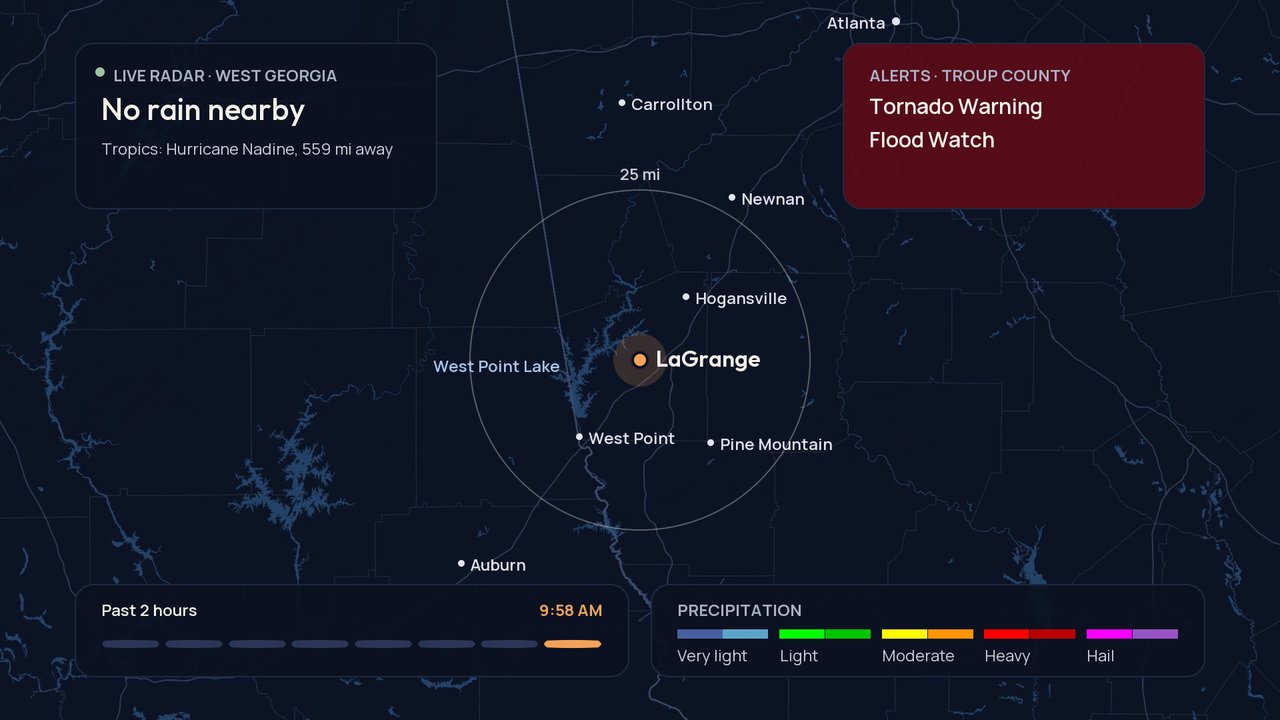
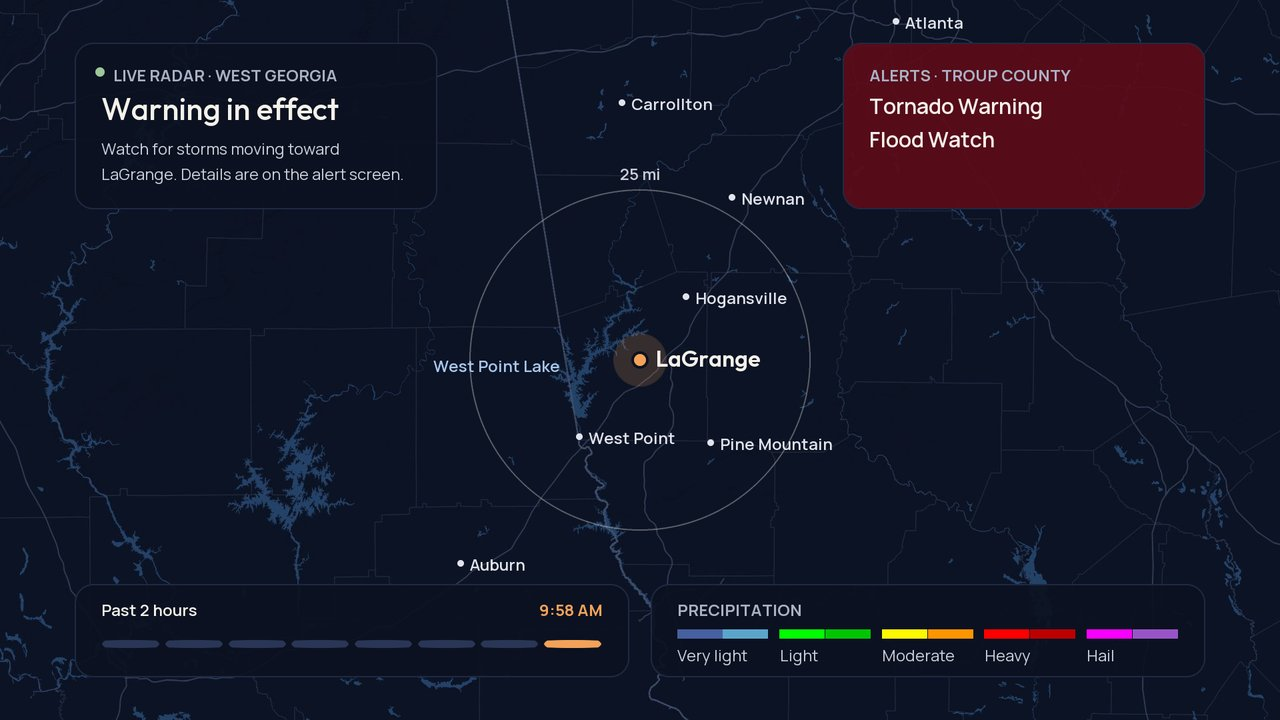
Docs: takeover, radar geometry, chores; changelog for 1.6

Changed region(s): [[0.0625, 0.1222, 0.3125, 0.275], [0.6562, 0.0306, 0.75, 0.0611], [0.3438, 0.7639, 0.4062, 0.7944]]

diff --git a/docs/CONFIGURATION.md b/docs/CONFIGURATION.md
@@ -15,6 +15,17 @@ Each member has a `name` (matched as a whole word in calendar titles), a `color`
 - `school` and `grade`: show the member on the School screen
 - `activities`: `["Marching band"]` adds the Friday-game note
 
+## Chores
+```json
+"chores": [
+  {"task": "Dishes after dinner", "rotate": ["Riley", "Casey"], "every": "day"},
+  {"task": "Feed the dog", "rotate": ["Alex", "Jordan", "Riley", "Casey"], "every": "week"}
+]
+```
+- **How turns rotate:** in the `rotate` order. Weekly chores move each Sunday, and daily ones each day.
+- **On screen:** the Board shows whose turn it is and who's next.
+- **Names** must be members; the build checks.
+
 ## Curbside
 `"curbside": {"weekday": "Monday"}` is the household's pickup day. The rules themselves (alternating yard and bulky weeks, city holidays) are the City of LaGrange's, in `rules.brs`. Another town needs its own rules there, or `"place": {"curbside": null}` to turn curbside off.
 
@@ -56,12 +67,13 @@ Without a `place` block, Daybreak uses its LaGrange, Georgia defaults (`placeDef
 | `college` | `{name, short, team, color, ics}`: a college athletics iCal feed whose titles start with `[W]`/`[L]` for results (Sidearm Sports sites) |
 | `news` | Google News queries (plain text, which the build URL-encodes), a regex that a headline or source must match to count as local, and the town paper's name (very short headlines from it are section labels) |
 | `curbside` | `"lagrange"` (the built-in rules) or `null` |
+| `radar` | `{places: [{name, lat, lon}], water: [{name, lat, lon}]}`: town labels and water labels on the radar map. The TV projects them, and skips any that would sit under a card |
 
 The build rejects unknown keys, so a typo fails loudly instead of being ignored.
 
 ## Still LaGrange-specific
 These are content rather than settings, and need code or art changes for another town:
-- **Radar map:** the base map, its bounding box and the town labels on it. `scripts/radar_map.py` builds the base map from `CENTER`, and the labels are in `buildRadar()`.
+- **Radar map:** nothing; it follows `home` in `family.json`. The build makes a base map for a 300 km window centered there (cached per location in `daybreak/cache/radar/`), the TV requests radar for the same window, and labels come from `place.radar`.
 - **Season notes:** the monthly nature and garden notes in `seasonItems()`.
 - **Photos:** the Callaway Gardens backgrounds in `daybreak/art/assets/`.
 

diff --git a/CHANGELOG.md b/CHANGELOG.md
@@ -2,6 +2,19 @@
 
 All notable changes to Daybreak. The format follows [Keep a Changelog](https://keepachangelog.com/en/1.1.0/), and versions follow [Semantic Versioning](https://semver.org/). Work is tracked on the [Daybreak roadmap](https://github.com/users/roberjo/projects/2) project.
 
+## [1.6.0] - 2026-10-25
+
+### Added
+- **Severe-weather takeover** (#39):
+  - **When:** a tornado, severe thunderstorm, flash flood, extreme wind or hurricane warning, or a tornado or flash-flood emergency.
+  - **What it does:** the app and the screensaver (even at night) show only the new alert screen and radar until the warning expires.
+  - **The alert screen:** the event, its expiry, the NWS headline and what to do.
+  - **Expired alerts** now drop out at derive time.
+  - **Radar wording:** while a warning is in effect, radar never says "No rain nearby".
+- **Radar follows home** (#40): the radar window, base map and labels are computed from `home` in `family.json`, and town and water labels come from `place.radar` as coordinates. Labels that would sit under a card are skipped. The base map is cached per location.
+- **Chores** (#41): `chores` in `family.json` rotate daily or weekly, and the Board shows whose turn it is and who's next.
+- **Season notes for every month** (#42): the Season screen no longer disappears from January to September.
+
 ## [1.5.1] - 2026-10-25
 
 ### Changed
@@ -112,6 +125,7 @@ Foundations: CI, deterministic tests, quick fixes and a safe deploy script.
 
 The first standalone release: 12 native screens, every feed fetched on the TV, rule-based heads-up insights, the family board through calendar events, and app and screensaver modes.
 
+[1.6.0]: https://github.com/roberjo/tv-check/compare/v1.5.1...v1.6.0
 [1.5.1]: https://github.com/roberjo/tv-check/compare/v1.5.0...v1.5.1
 [1.5.0]: https://github.com/roberjo/tv-check/compare/v1.4.0...v1.5.0
 [1.4.0]: https://github.com/roberjo/tv-check/compare/v1.3.0...v1.4.0

diff --git a/DAYBREAK.md b/DAYBREAK.md
@@ -23,8 +23,9 @@ Daybreak is a family dashboard and screensaver for a Roku TV. It's built for a h
 | Lake | Weekends or dry days | West Point Lake level vs summer and winter pool, best lake day, sunset, moon |
 | Sky | Clear nights or a meteor shower within 2 weeks | Moon phase, shower, viewing conditions |
 | School | School mornings and evenings | School-related calendar items, a card per student |
-| Board | When there are notes, groceries or countdowns | "TV: …" calendar events as notes, "Buy: …" as groceries, "Countdown: …" as days to go |
-| Season | Midday | Monthly nature and garden notes for West Georgia, frost watch |
+| Board | When there are notes, groceries, countdowns or chores | "TV: …" calendar events as notes, "Buy: …" as groceries, "Countdown: …" as days to go, and whose turn it is for each chore |
+| Season | Midday, all year | Three nature and garden notes for each month in West Georgia, frost watch |
+| Weather warning | A tornado, severe thunderstorm, flash flood, extreme wind or hurricane warning | Takes over the app and the screensaver, alternating with radar until the warning expires. Shows the NWS headline, expiry and what to do |
 | Night | Screensaver, 11 PM to 5 AM | A dim clock that drifts every 5 minutes, plus the coming day's forecast and first event. Radar joins it during a warning |
 | Loading | Before the first data arrives | The real date and clock with placeholder cards. If the TV is offline, a note says when the saved data is from |
 

diff --git a/docs/ARCHITECTURE.md b/docs/ARCHITECTURE.md
@@ -58,6 +58,15 @@ During a game (an event `in` progress, or one that should have started in the la
 - **Settings** live in the `daybreak` registry section as JSON. The data task gets them through its `settings` field. Gentle news is applied in `derive()`, so a change takes effect within a minute, without refetching.
 - **Speed test:** `SpeedTask` runs only on request: three empty requests for latency, then a 25 MB download to `tmp:`, deleted afterwards.
 
+## Radar geometry
+- **The window:** `radarView(lat, lon)` (`rules.brs`) computes the Web Mercator window around home, 300 km across on the ground and 1920×1080. It's the same window `scripts/radar_map.py` uses for the base map, so the radar frames, the base map and the labels line up. `radarPx()` places labels.
+- **Precision:** the math is single precision, as BrightScript floats are. Tests check it against the Python projection: the bounding box agrees to within 10 m (under 0.1 px), and the label pixels match exactly.
+
+## Severe-weather takeover
+`takeoverAlert()` finds an unexpired tornado, severe thunderstorm, flash flood, extreme wind or hurricane warning, or a tornado or flash-flood emergency. While there is one:
+- `chooseScreens()` returns only `alert` and `radar`, in the app and the screensaver alike, at any hour.
+- Expired alerts drop out at derive time, so the takeover ends on its own, even if a refresh is late.
+
 ## Memory budget
 | Item | Before 1.2 | 1.2 |
 |---|---|---|
